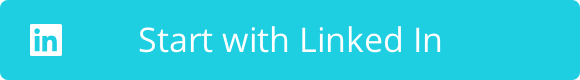
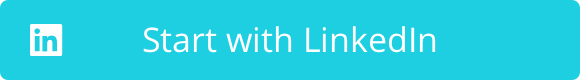
Modify login buttons and styles

Changed region(s): [[0.2172, 0.325, 0.7759, 0.675], [0.0931, 0.475, 0.1241, 0.625]]

diff --git a/src/components/Login.js b/src/components/Login.js
@@ -18,6 +18,7 @@ import LinkedInLogin from './utils/linkedin-login';
 class Login extends Component {
   constructor(props) {
     super(props);
+
     this.initLinkedIn();
   }
 
@@ -72,35 +73,40 @@ class Login extends Component {
   }
 
   render() {
-    console.log('render');
     return (
 
           //  Render the screen on View.
            <View style={styles.container}>
+             <View style={styles.welcomeContain}>
+                <Image source={require('../resources/splash_icon_1x.png')} />
+             </View>
 
              {/* Render facebook login button */}
-             <LoginButton
-                onLoginFinished={
-                  (error, result) => {
-                    if (error) {
-                      alert('Login has error: ' + result.error);
-                    } else if (result.isCancelled) {
-                      alert('Login is cancelled.');
-                    } else {
-                      AccessToken.getCurrentAccessToken().then(
-                        (data) => {
-                          alert(data.accessToken.toString());
-                        }
-                    );
+             <Image style={styles.facebookLoginButton}
+               source={require('../resources/facebook_2x.png')}>
+               <LoginButton style= {styles.defaultButton}
+                  onLoginFinished={
+                    (error, result) => {
+                      if (error) {
+                        alert('Login has error: ' + result.error);
+                      } else if (result.isCancelled) {
+                        alert('Login is cancelled.');
+                      } else {
+                        AccessToken.getCurrentAccessToken().then(
+                          (data) => {
+                            alert(data.accessToken.toString());
+                          }
+                      );
+                      }
                     }
-                  }
-              }
-              onLogoutFinished={() => alert('Logout.')}/>
+                }
+                onLogoutFinished={() => alert('Logout.')}/>
+            </Image>
 
             {/* Render linkedin login buttion */}
             <TouchableHighlight onPress={this.signinWithLinkedIn}>
-              <Image
-                source={require('../resources/Linkedin_SignIn_btn.png')} />
+              <Image style={styles.linkedinLoginButton}
+                source={require('../resources/Linkedin_2x.png')} />
             </TouchableHighlight>
         </View>
      );
@@ -108,20 +114,33 @@ class Login extends Component {
 }
 
 const styles = StyleSheet.create({
+  welcomeContain: {
+    justifyContent: 'center',
+    alignItems: 'center',
+    marginBottom: 105,
+  },
   container: {
     flex: 1,
     justifyContent: 'center',
     alignItems: 'center',
     backgroundColor: '#F5FCFF',
   },
-  welcome: {
-    textAlign: 'center',
-    margin: 10,
+  defaultButton: {
+    opacity: 0.1,
+    height: 40,
+    width: 290,
+    marginBottom: 10,
   },
-  instructions: {
-    textAlign: 'center',
-    color: '#333333',
-    marginBottom: 5,
+  facebookLoginButton: {
+    height: 40,
+    width: 290,
+    marginBottom: 10,
+    zIndex: 1,
+  },
+  linkedinLoginButton: {
+    height: 40,
+    width: 290,
+    backgroundColor: '#FFFFFFFF',
   },
 });
 
